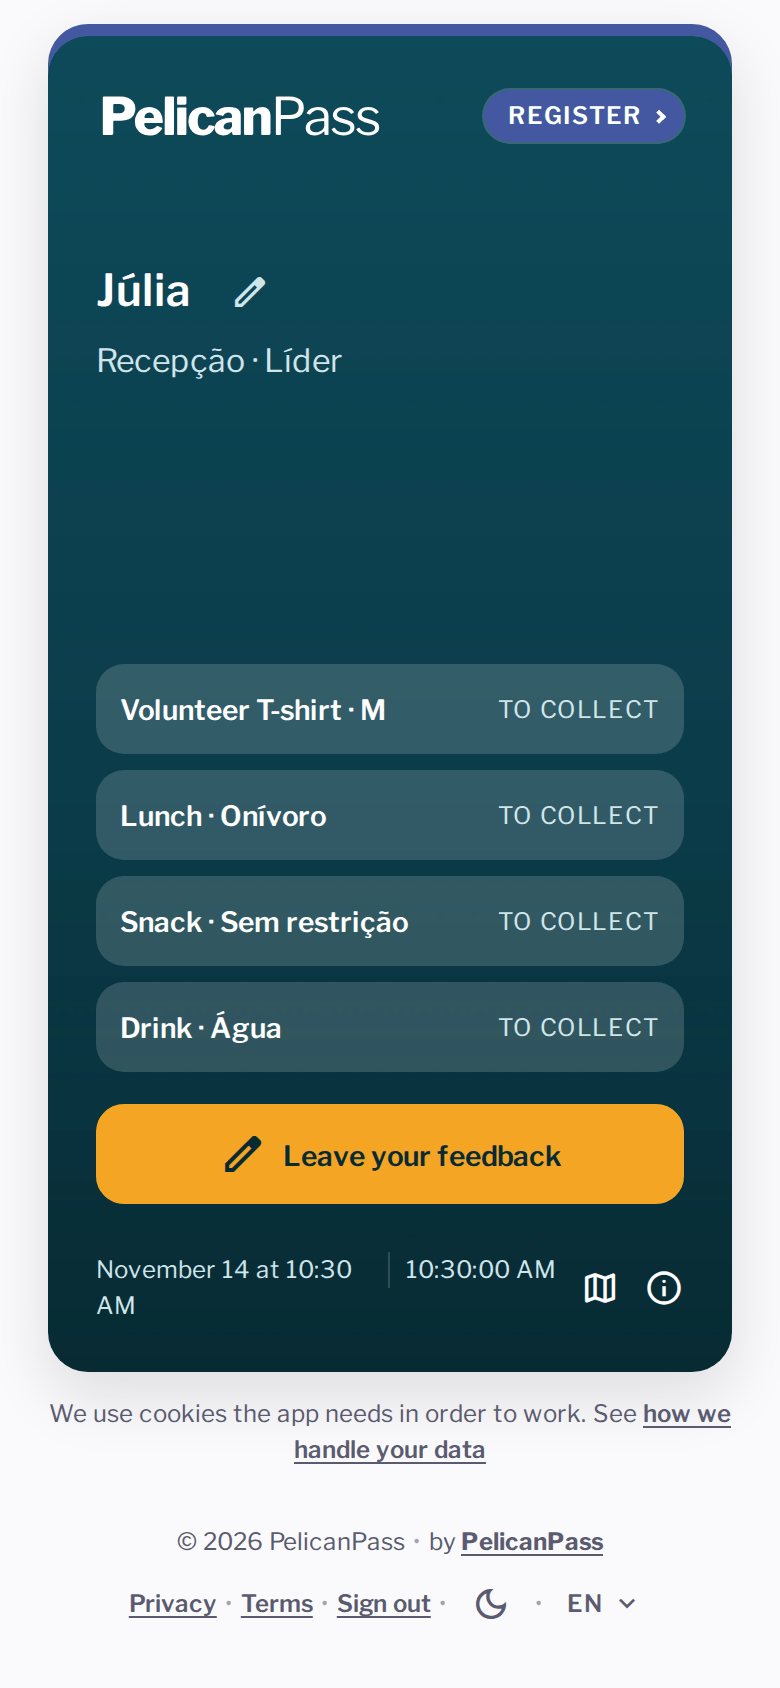
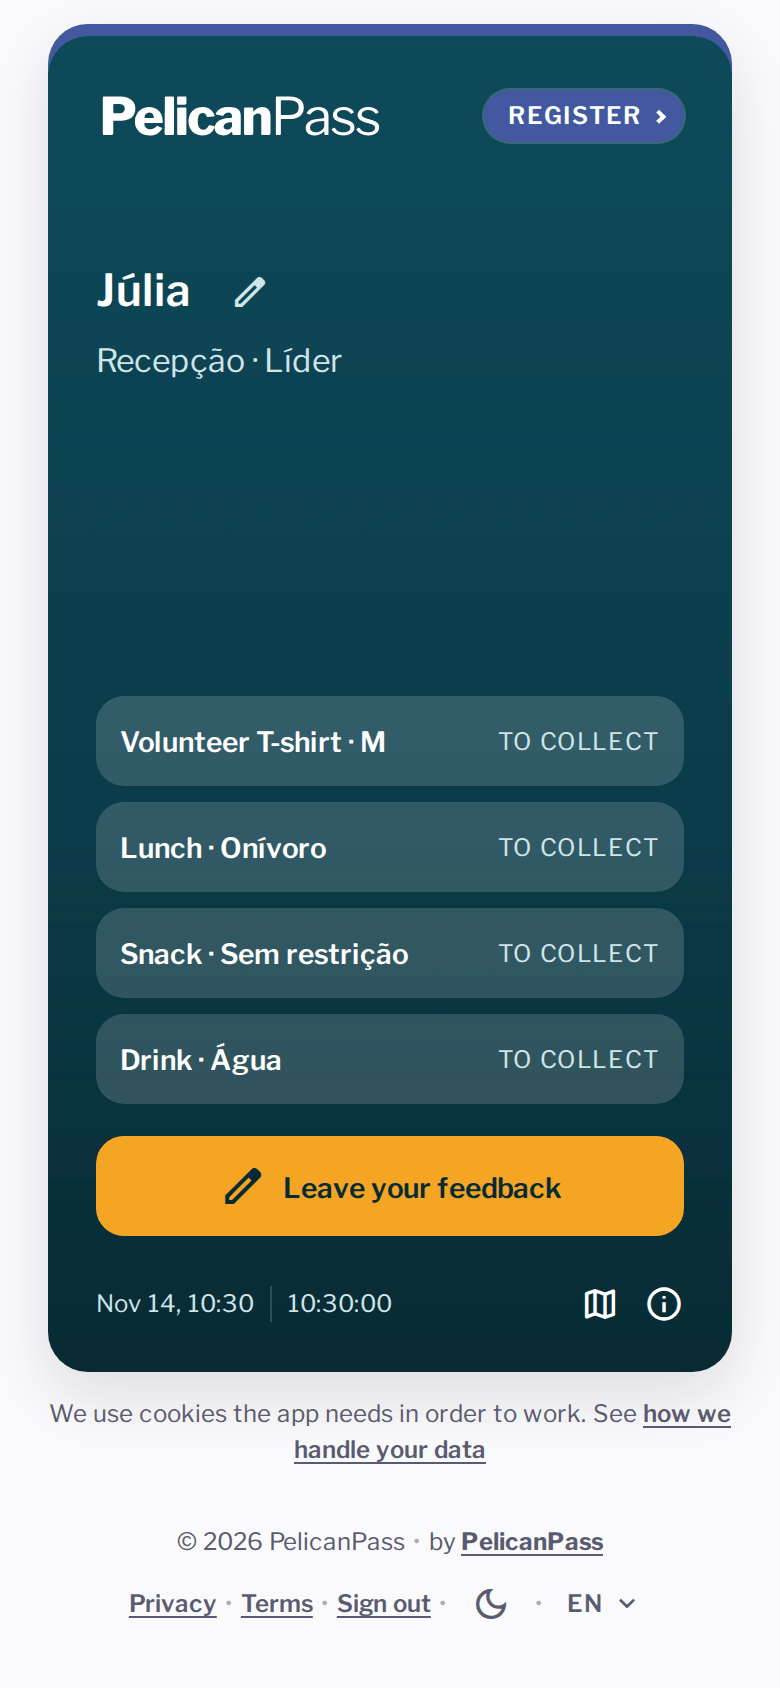
fix(pass): show times in 24-hour format and abbreviate English months
The check-in moment read "November 14 at 10:30 AM" in English and
wrapped beside the map icon on the volunteer pass. Pass times are now
24-hour in every locale, and English abbreviates the month. Regenerate
the affected English screenshots.

Changed region(s): [[0.1231, 0.3697, 0.8923, 0.8009]]

diff --git a/src/web/client/pages/attendee/pass/ui/pass.ts b/src/web/client/pages/attendee/pass/ui/pass.ts
@@ -1,6 +1,7 @@
 import { qsOptional } from '../../../../layouts/main/dom.ts';
 import { renderClock as renderClockInto } from '../../../../modules/ui/clock.ts';
 import { renderWindowProgress } from '../../../../modules/ui/window-progress.ts';
+import { checkinAtOptions } from './checkin-at.ts';
 import { PASS_COPY } from './messages.ts';
 import { displayTicketCode } from '../../../../../../constants/ticket.ts';
 import {
@@ -37,7 +38,8 @@ interface Chip {
 const slot = (name: string) => qsOptional(`[data-pass="${name}"]`);
 
 /**
- * Formats the check-in moment in the page's locale.
+ * Formats the check-in moment in the page's locale: 24-hour time, with an
+ * abbreviated month in English and the full month name elsewhere.
  *
  * `checkinAt` arrives as a JSON string rather than a `Date` — it was serialised
  * into the page by the server — so it is parsed here rather than assumed.
@@ -52,12 +54,9 @@ const formatCheckinAt = (value: string | Date | null | undefined): string => {
   const date = value instanceof Date ? value : new Date(value);
   if (Number.isNaN(date.getTime())) return '';
 
-  return new Intl.DateTimeFormat(document.documentElement.lang, {
-    day: '2-digit',
-    month: 'long',
-    hour: '2-digit',
-    minute: '2-digit',
-  }).format(date);
+  const lang = document.documentElement.lang;
+
+  return new Intl.DateTimeFormat(lang, checkinAtOptions(lang)).format(date);
 };
 
 /**

diff --git a/src/web/client/pages/attendee/pass/ui/checkin-at.test.ts b/src/web/client/pages/attendee/pass/ui/checkin-at.test.ts
@@ -1,0 +1,27 @@
+import assert from 'node:assert/strict';
+import { describe, it } from 'node:test';
+
+import { checkinAtOptions } from './checkin-at.ts';
+
+const moment = new Date('2025-11-14T13:30:00Z');
+
+const format = (lang: string): string =>
+  new Intl.DateTimeFormat(lang, {
+    ...checkinAtOptions(lang),
+    timeZone: 'America/Sao_Paulo',
+  }).format(moment);
+
+describe('checkinAtOptions', () => {
+  it('abbreviates the month in English, with 24-hour time', () => {
+    assert.equal(format('en'), 'Nov 14, 10:30');
+  });
+
+  it('follows English for its regional and pseudo-locale tags', () => {
+    assert.equal(format('en-US'), 'Nov 14, 10:30');
+    assert.equal(format('en-XA'), 'Nov 14, 10:30');
+  });
+
+  it('keeps the full month name in pt-BR, with 24-hour time', () => {
+    assert.match(format('pt-BR'), /^14 de novembro \S+ 10:30$/);
+  });
+});

diff --git a/src/web/client/modules/ui/clock.ts b/src/web/client/modules/ui/clock.ts
@@ -4,7 +4,7 @@
  * Two screens draw it — the attendee's pass and the volunteer's band block —
  * and they are read side by side across a counter. A drift in options between
  * two copies of this, one 24-hour and one 12-hour, would break the comparison
- * the clocks exist for.
+ * the clocks exist for. Always 24-hour, in every locale.
  *
  * Built once at module scope: it is called twice a second across those two
  * screens, and constructing the formatter is the expensive half of the work.
@@ -14,6 +14,7 @@ const format = new Intl.DateTimeFormat(document.documentElement.lang, {
   hour: '2-digit',
   minute: '2-digit',
   second: '2-digit',
+  hourCycle: 'h23',
 });
 
 /**

diff --git a/src/web/client/pages/attendee/pass/ui/checkin-at.ts b/src/web/client/pages/attendee/pass/ui/checkin-at.ts
@@ -1,0 +1,17 @@
+/**
+ * Formatting options for the check-in moment on the pass.
+ *
+ * Time is always 24-hour. The month is abbreviated in English, where the
+ * footer line is otherwise too long for the volunteer pass, and written out in
+ * full elsewhere.
+ *
+ * @param lang - The page's BCP 47 language tag.
+ * @returns Options for `Intl.DateTimeFormat`.
+ */
+export const checkinAtOptions = (lang: string): Intl.DateTimeFormatOptions => ({
+  day: '2-digit',
+  month: new Intl.Locale(lang).language === 'en' ? 'short' : 'long',
+  hour: '2-digit',
+  minute: '2-digit',
+  hourCycle: 'h23',
+});

diff --git a/CHANGELOG.md b/CHANGELOG.md
@@ -41,6 +41,7 @@ The public history of this project starts at 2.0.0. Earlier versions, up to 1.2.
 
 ### Fixed
 
+- The pass shows the check-in moment with an abbreviated month in English, and every time on the pass in 24-hour format, so the footer line no longer wraps on the volunteer pass
 - `npm run docs:screenshots` captured the check-in ticket step before its hint was shown, so `checkin-ticket.png` changed from run to run; both check-in captures now wait for the hint to finish fading in
 - `npm run docs:screenshots` drew the rotation window's ring at whatever level it had drained to by the time of the capture, so `pass-back.png` and `staff.png` changed from run to run; the ring is now held at three quarters
 - `npm run docs:screenshots` could capture a page before its delayed animations ran, so the footer, which fades in 0.4s after load, was missing from some screenshots and present in others; every capture now waits for running animations to finish
